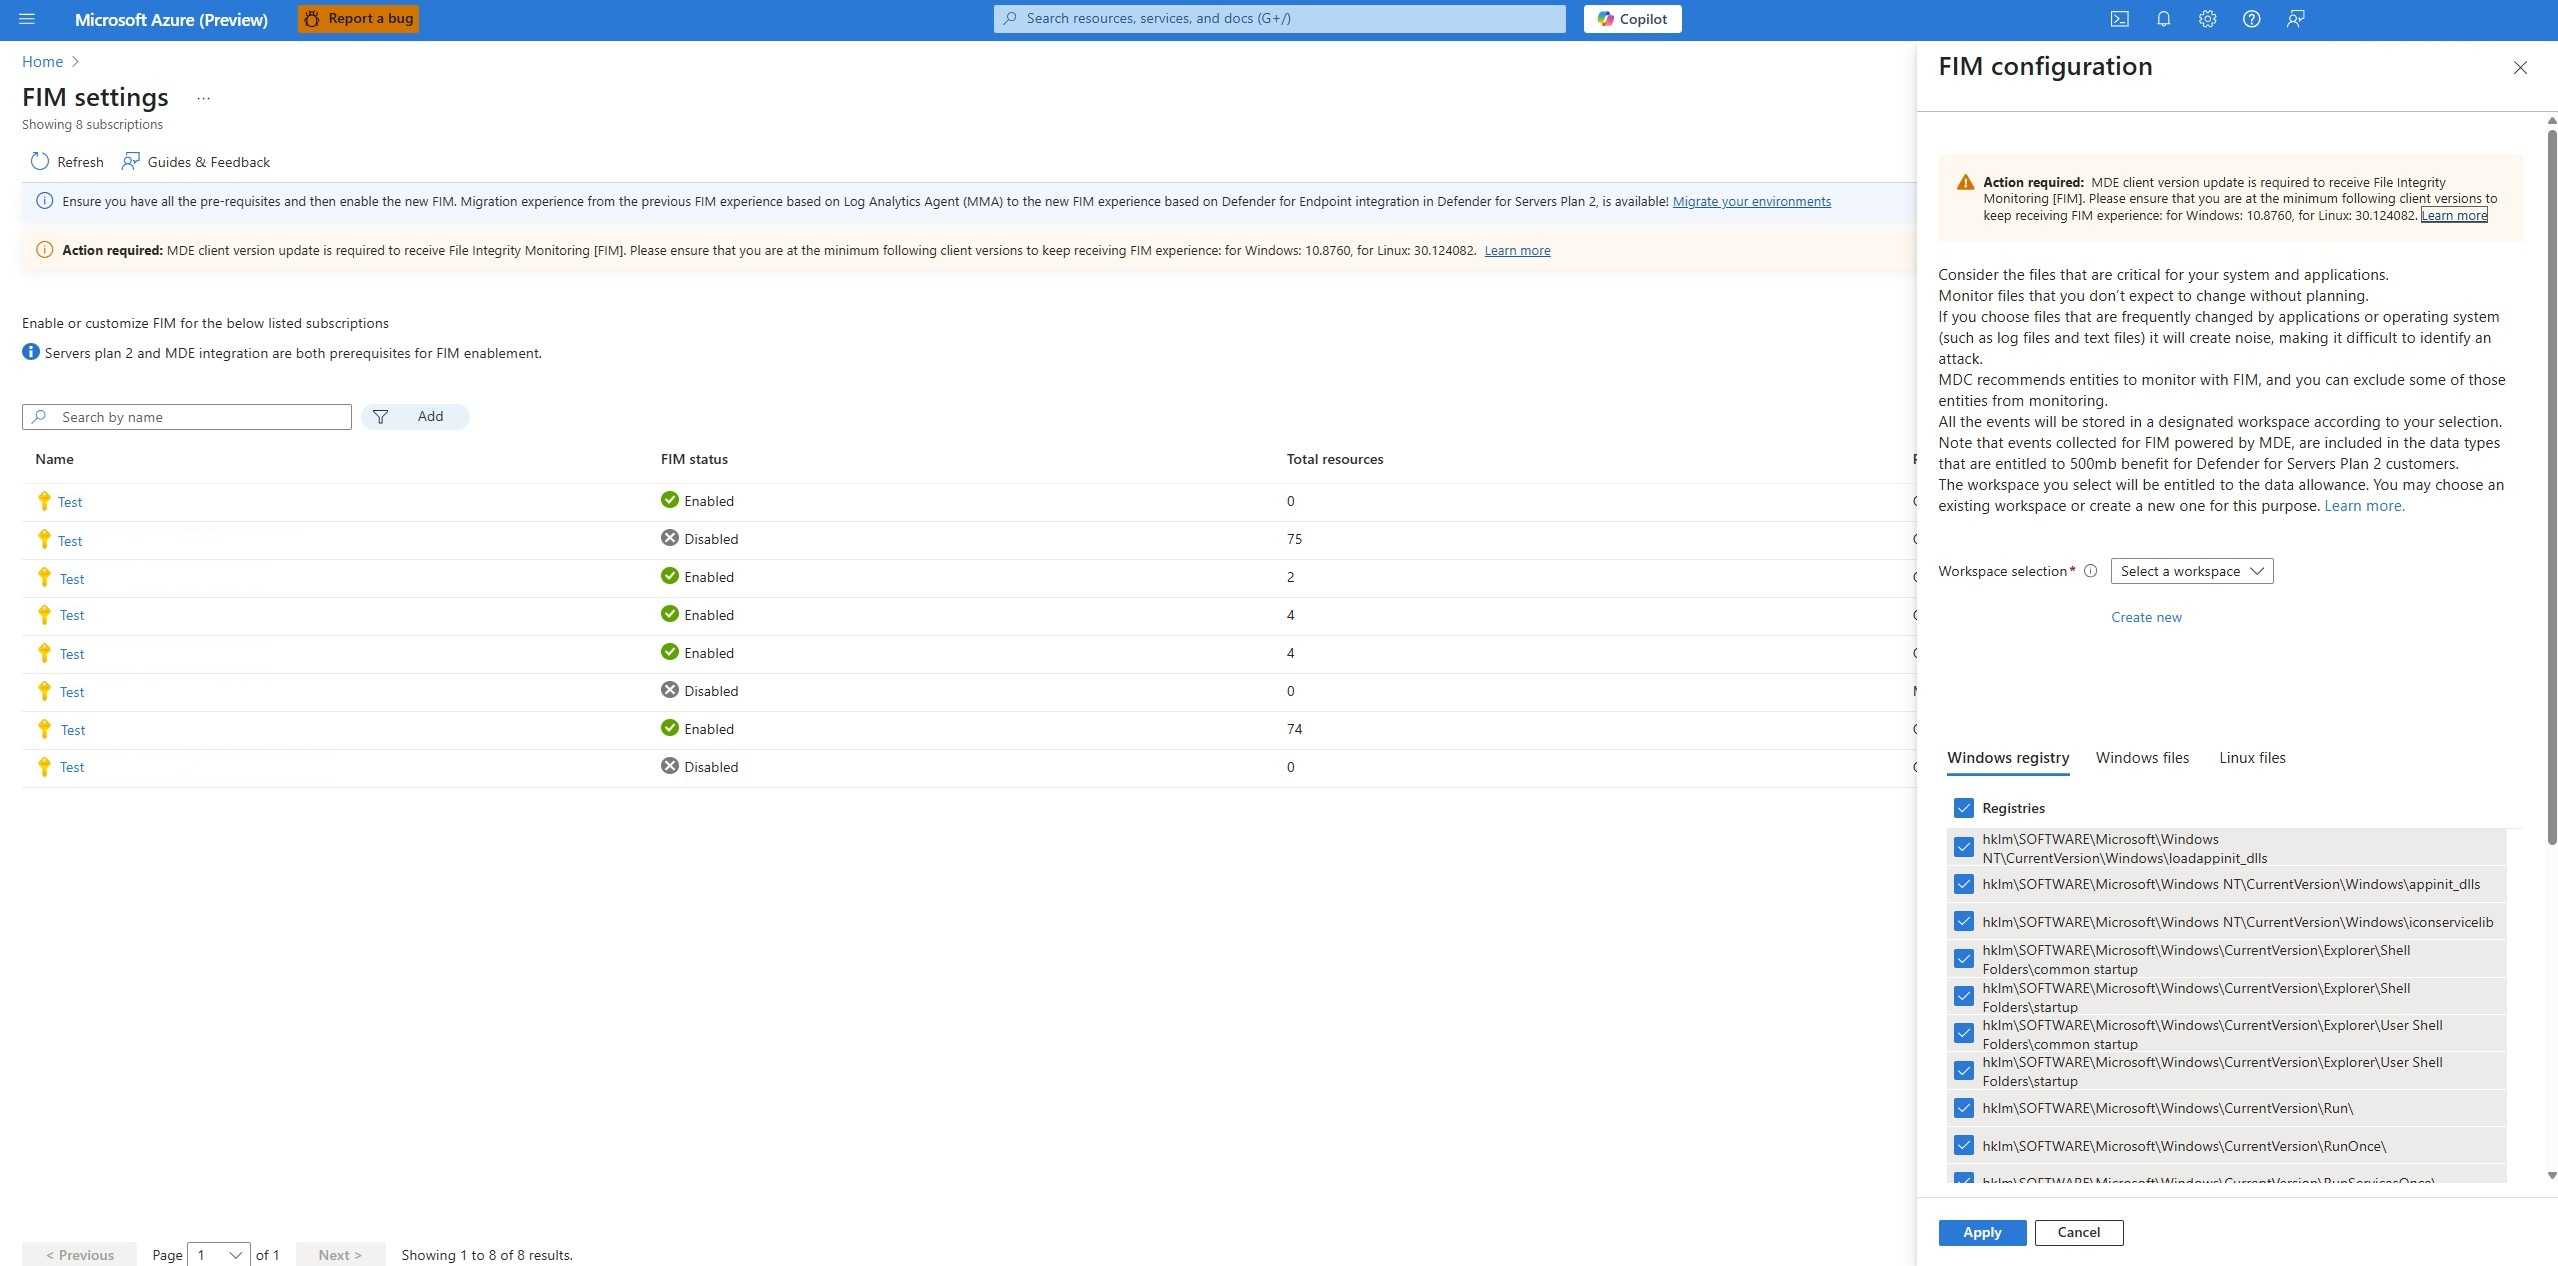
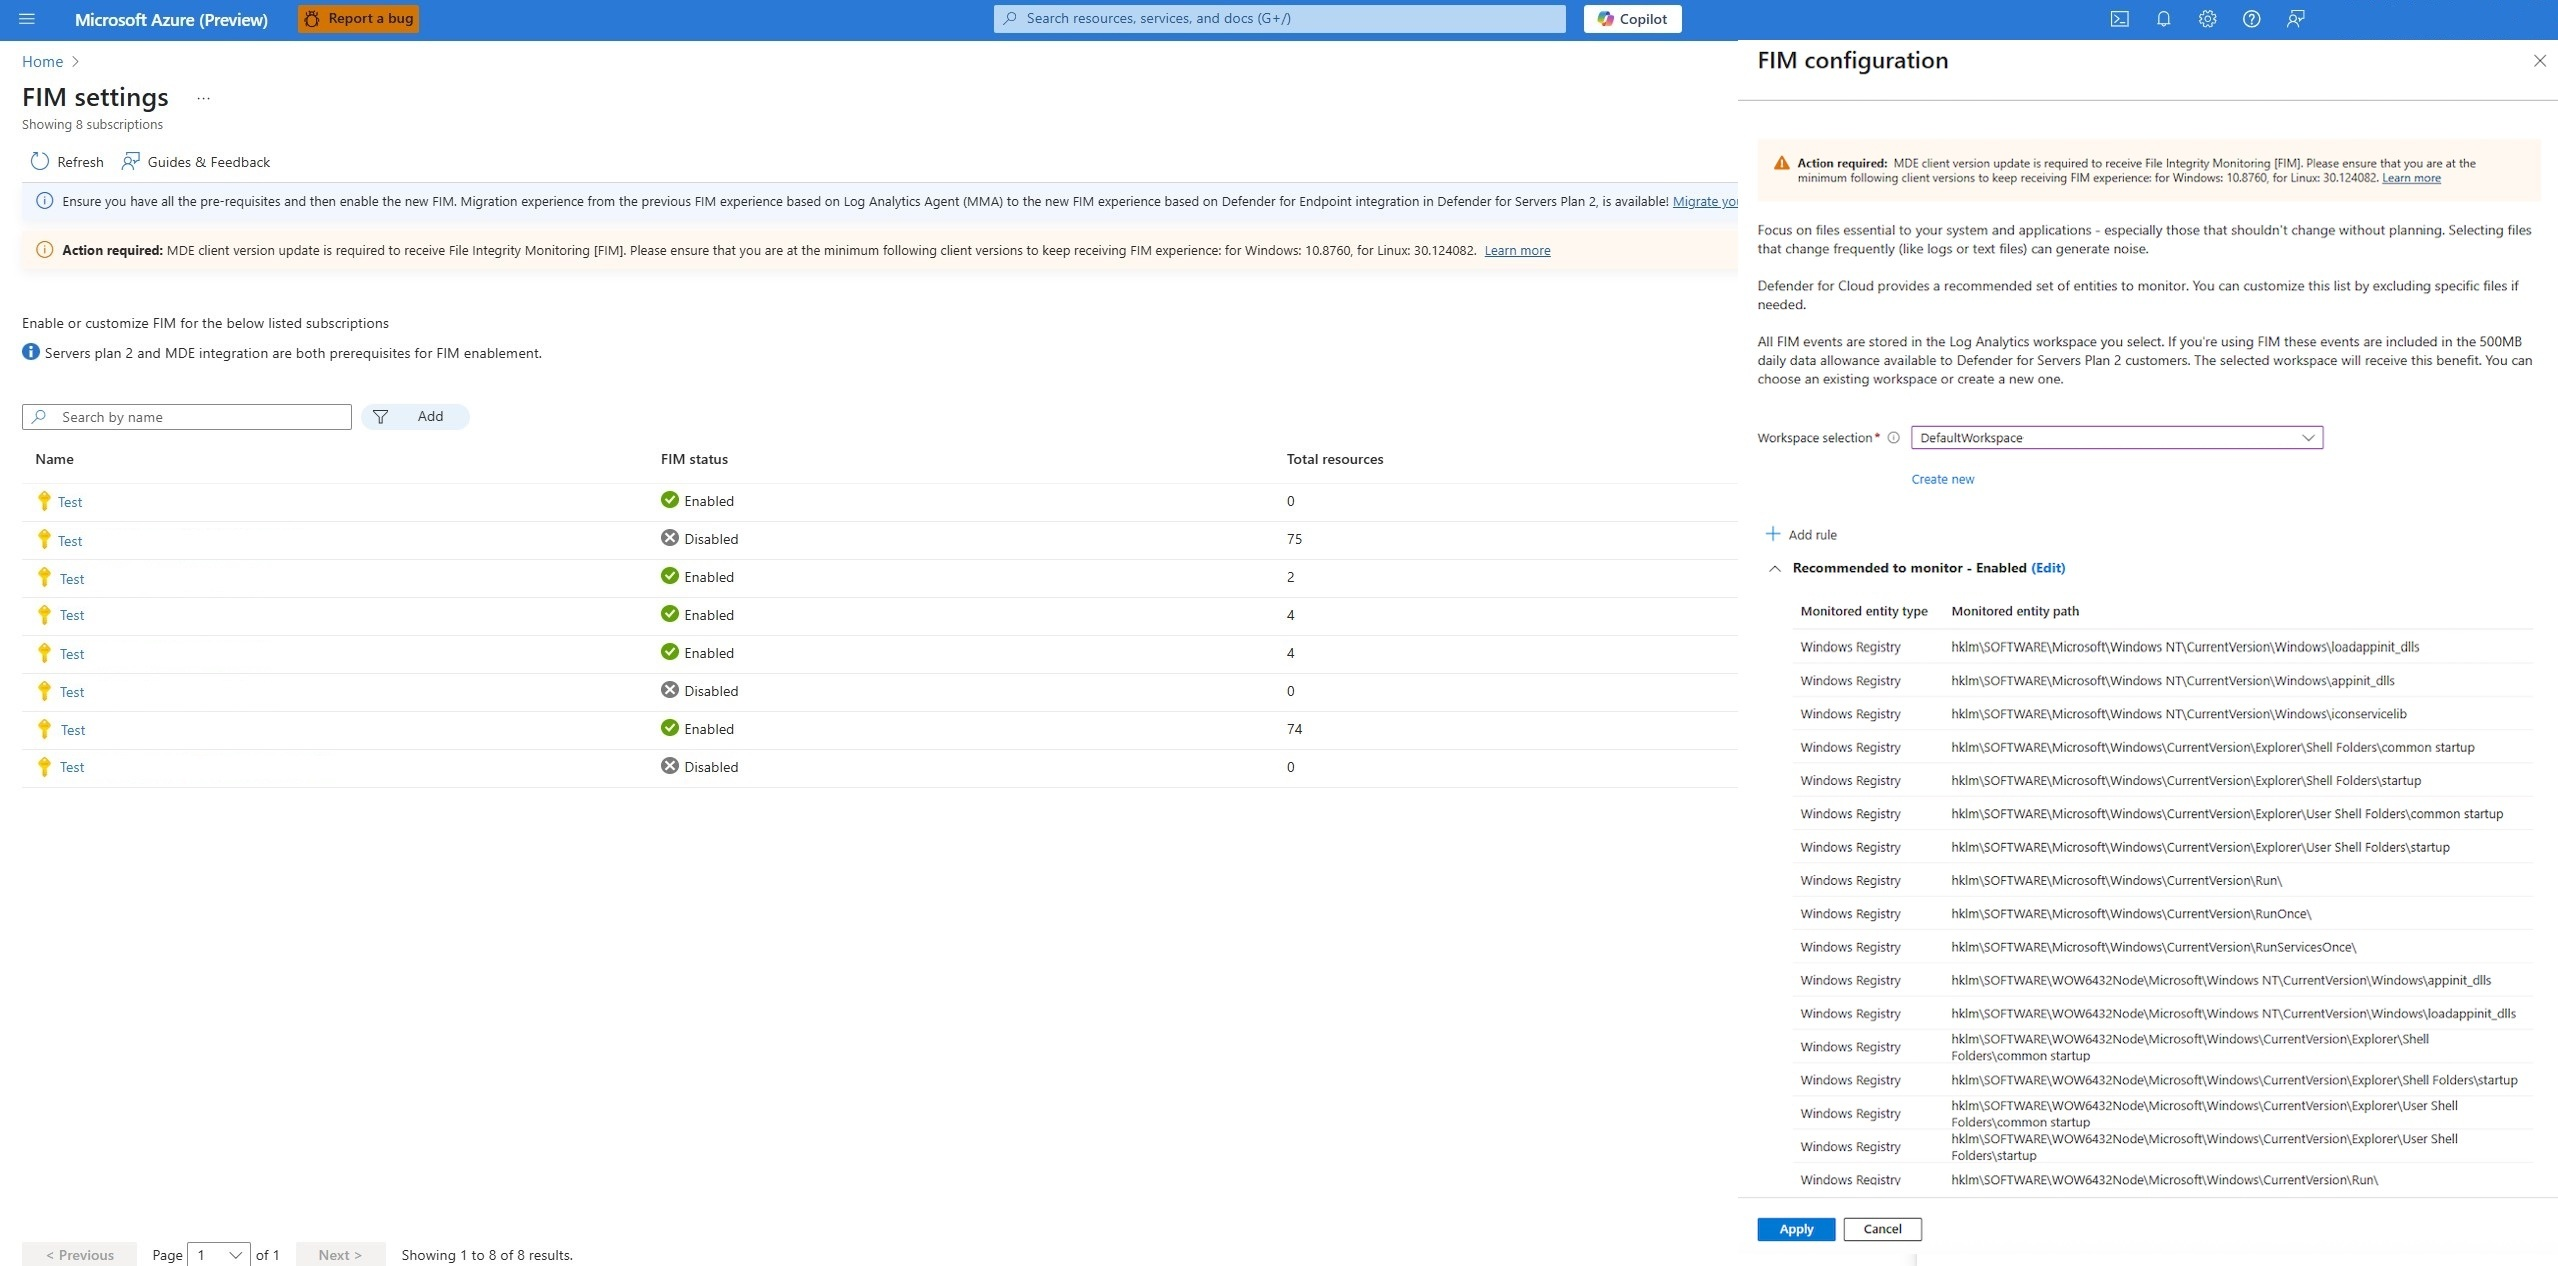
Updating Lab8 with agentless FIM

Changed region(s): [[0.6794, 0.4313, 0.9883, 0.9858], [0.6794, 0.0924, 1.0, 0.6777], [0.6794, 0.0308, 0.8339, 0.0616]]

diff --git a/Labs/Modules/Module-8-Advance-Cloud-Defense.md b/Labs/Modules/Module-8-Advance-Cloud-Defense.md
@@ -57,14 +57,24 @@ File integrity monitoring (FIM) scans and analyzes operating system files, Windo
 1.	From Microsoft Defender for Cloud menu, select **Environment Settings**.
 2.	Select the relevant subscription.
 3.	Locate the Defender for Servers plan and select **Settings**.
-4.  In the **File Integrity Monitoring** section, switch the toggle to **On**. Then select **Edit configuration**.
+4.  In the **File Integrity Monitoring** section, switch the toggle to **On**. Then select **Edit configuration**. 
 ![](../Images/mdfc-fim.png?raw=true)
 5.	The **FIM configuration** pane opens. In the **Workspace selection** dropdown, select the workspace where you want to store the file integrity monitoring data. If you want to create a new workspace, select **Create new**.
 ![](../Images/lab8-fimconf1.png?raw=true)
-6.  In the lower section of the **FIM configuration** pane, select the **Windows registry**, **Windows files**, and **Linux files** tabs to choose the files and registries you want to monitor. If you choose the top selection in each tab, all files and registries are monitored. Select **Apply** to save your changes.
+6.  Further below in the **Recommended to monitor** section, select **Edit**. Select the [files and registries](https://learn.microsoft.com/en-us/azure/defender-for-cloud/file-integrity-monitoring-overview#recommended-items-to-monitor) recommended for monitoring. Ensure the Status toggle is set to **Enabled** and select the **Change types** you want to monitor. By default, all entities recommended for monitoring are selected. You can remove entities from monitoring by selecting the three dot button next to the monitoring rule and then selecting **Delete**.
 ![](../Images/lab8-fimconf2.png?raw=true)
-7.  Select **continue**.
-8.  Select **Save**.
+7. Select **Apply** to save your changes.
+8. In addition to monitoring recommended files and registries, you can also define your own, custom rules for monitoring. Select **+ Add rule** to create a custom rule.
+
+    - Under the Add new custom rule section, enter a Rule name and (Optional) a Rule description.
+    - Ensure Status toggle is set to Enabled.
+    - Select the Change types and define Entity type and Entity path for your custom rules.
+    - Select Apply to save your changes.
+![](../Images/lab8-customRule.png?raw=true)
+    - (Optional) Select Delete rule to delete a rule configuration.
+9. Select **Apply** to save your changes.
+10. Select **Apply**.
+11. Select **Continue**.
 
 #### Review FIM findings
 1.  In the Defender for Cloud navigation menu, go to **Workload protection** > **File integrity monitoring**.
